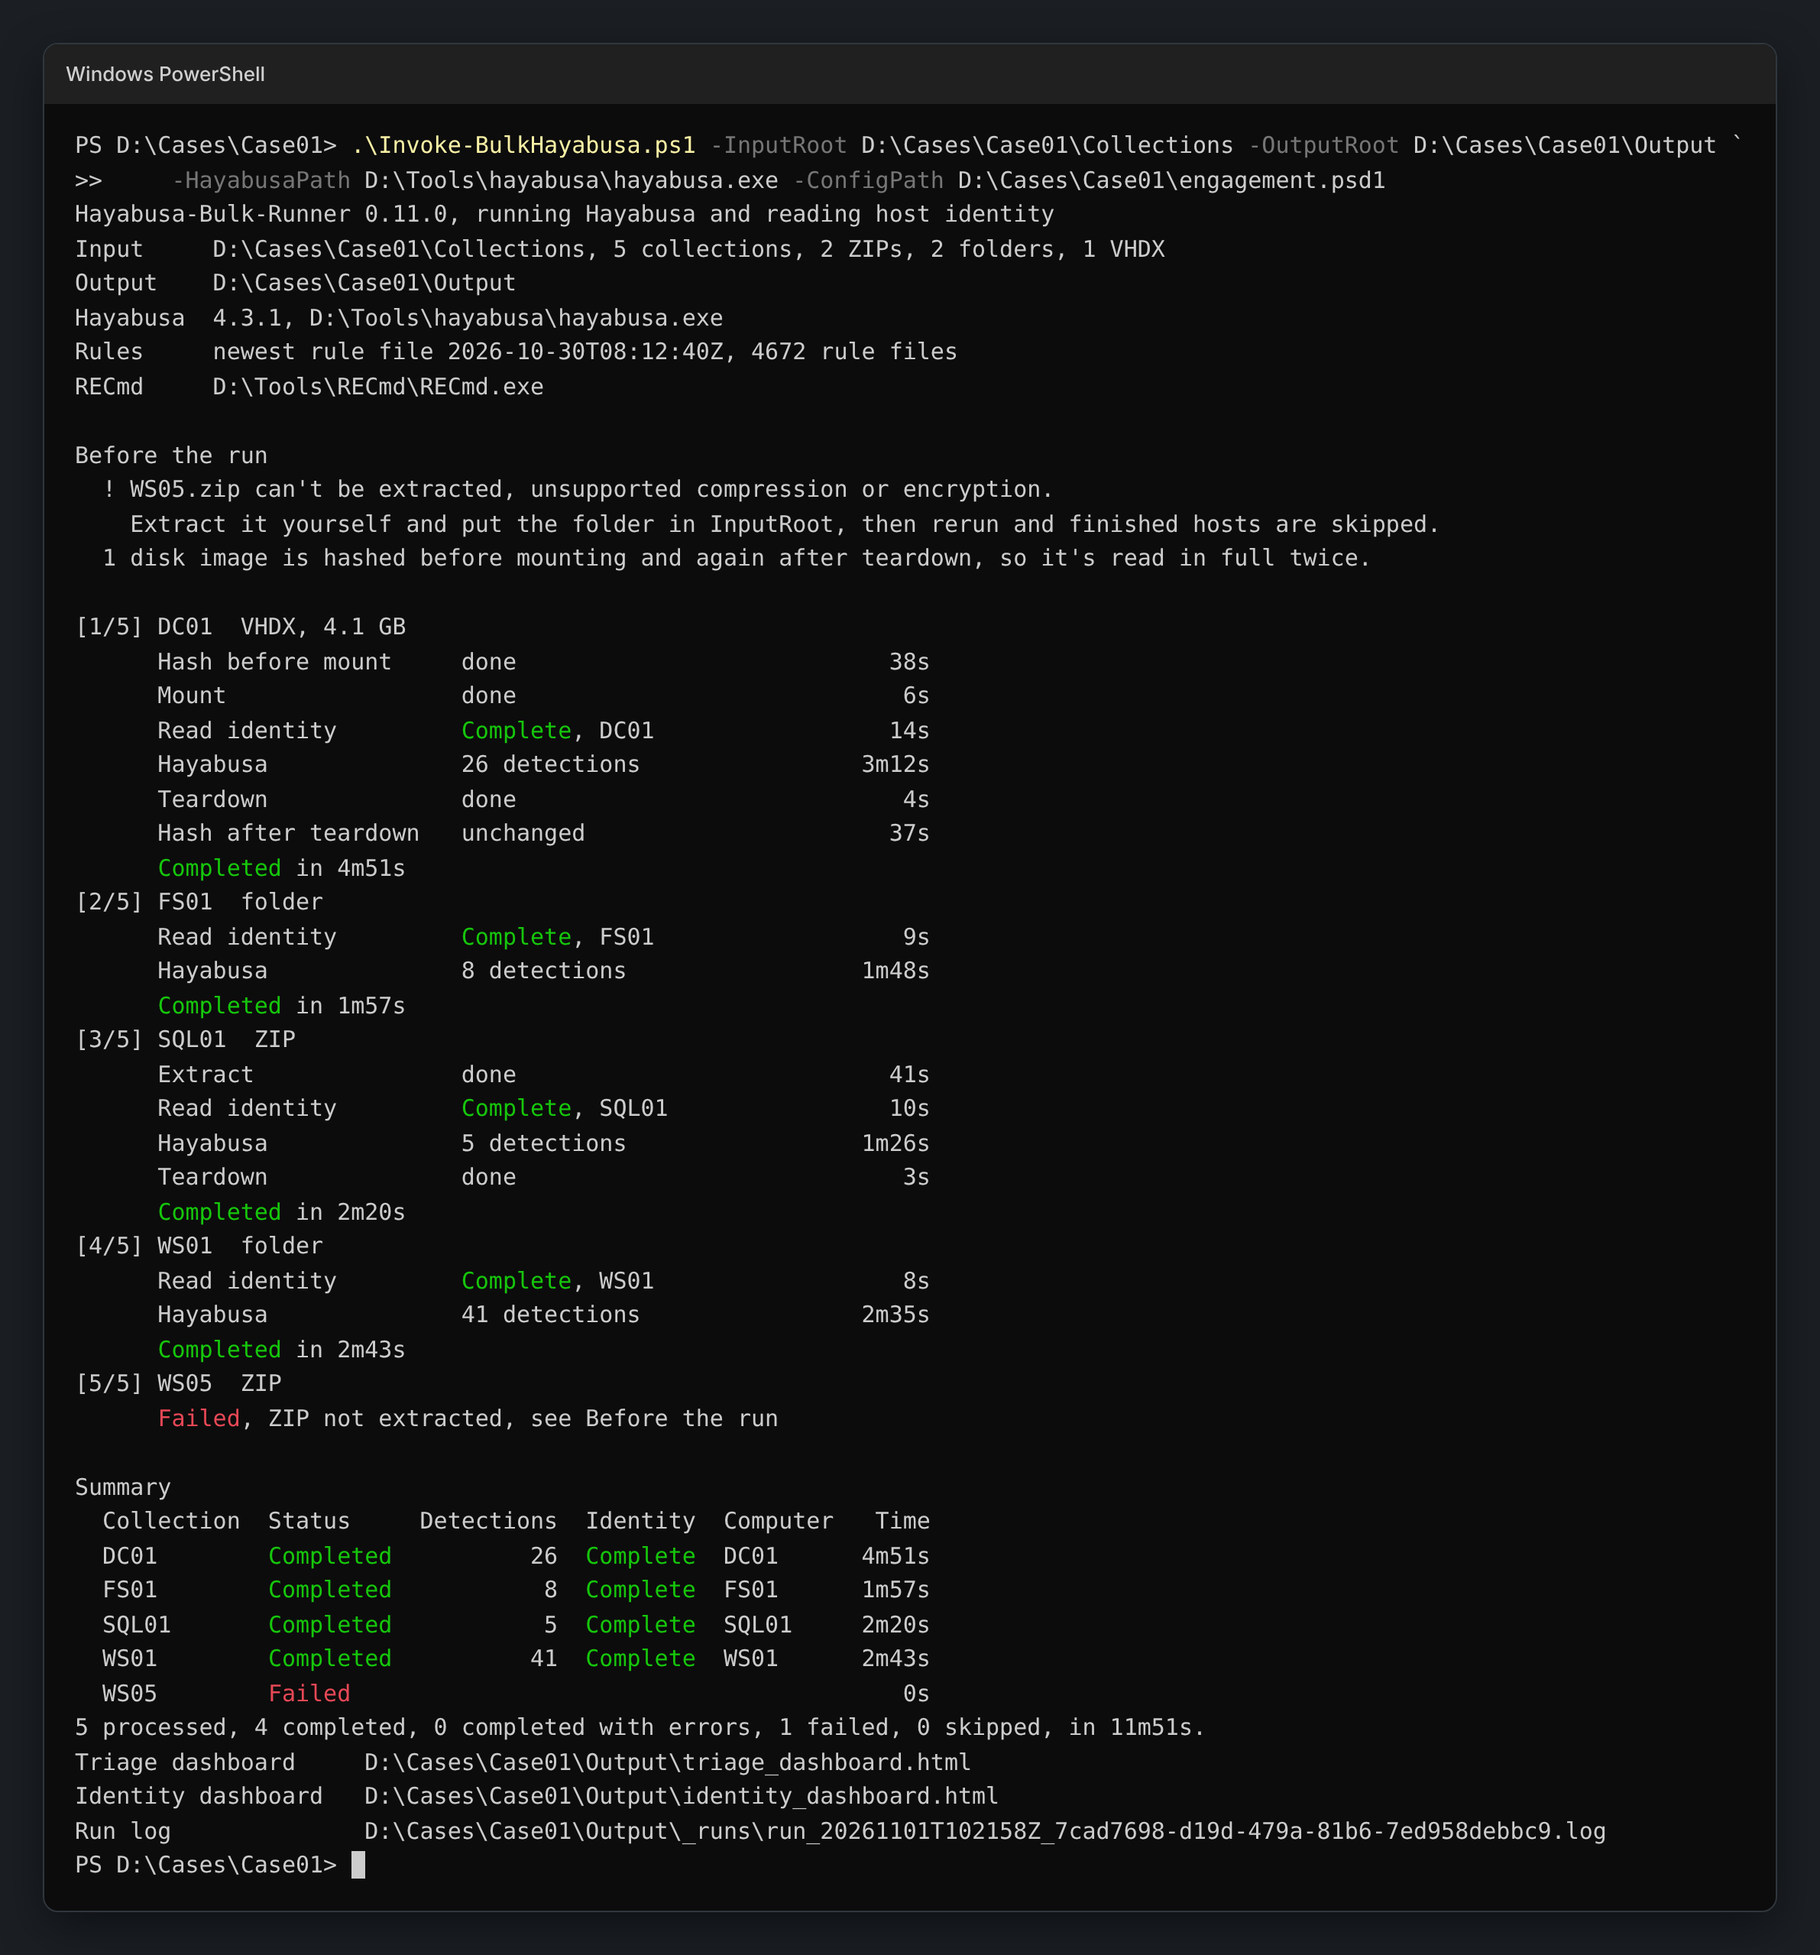
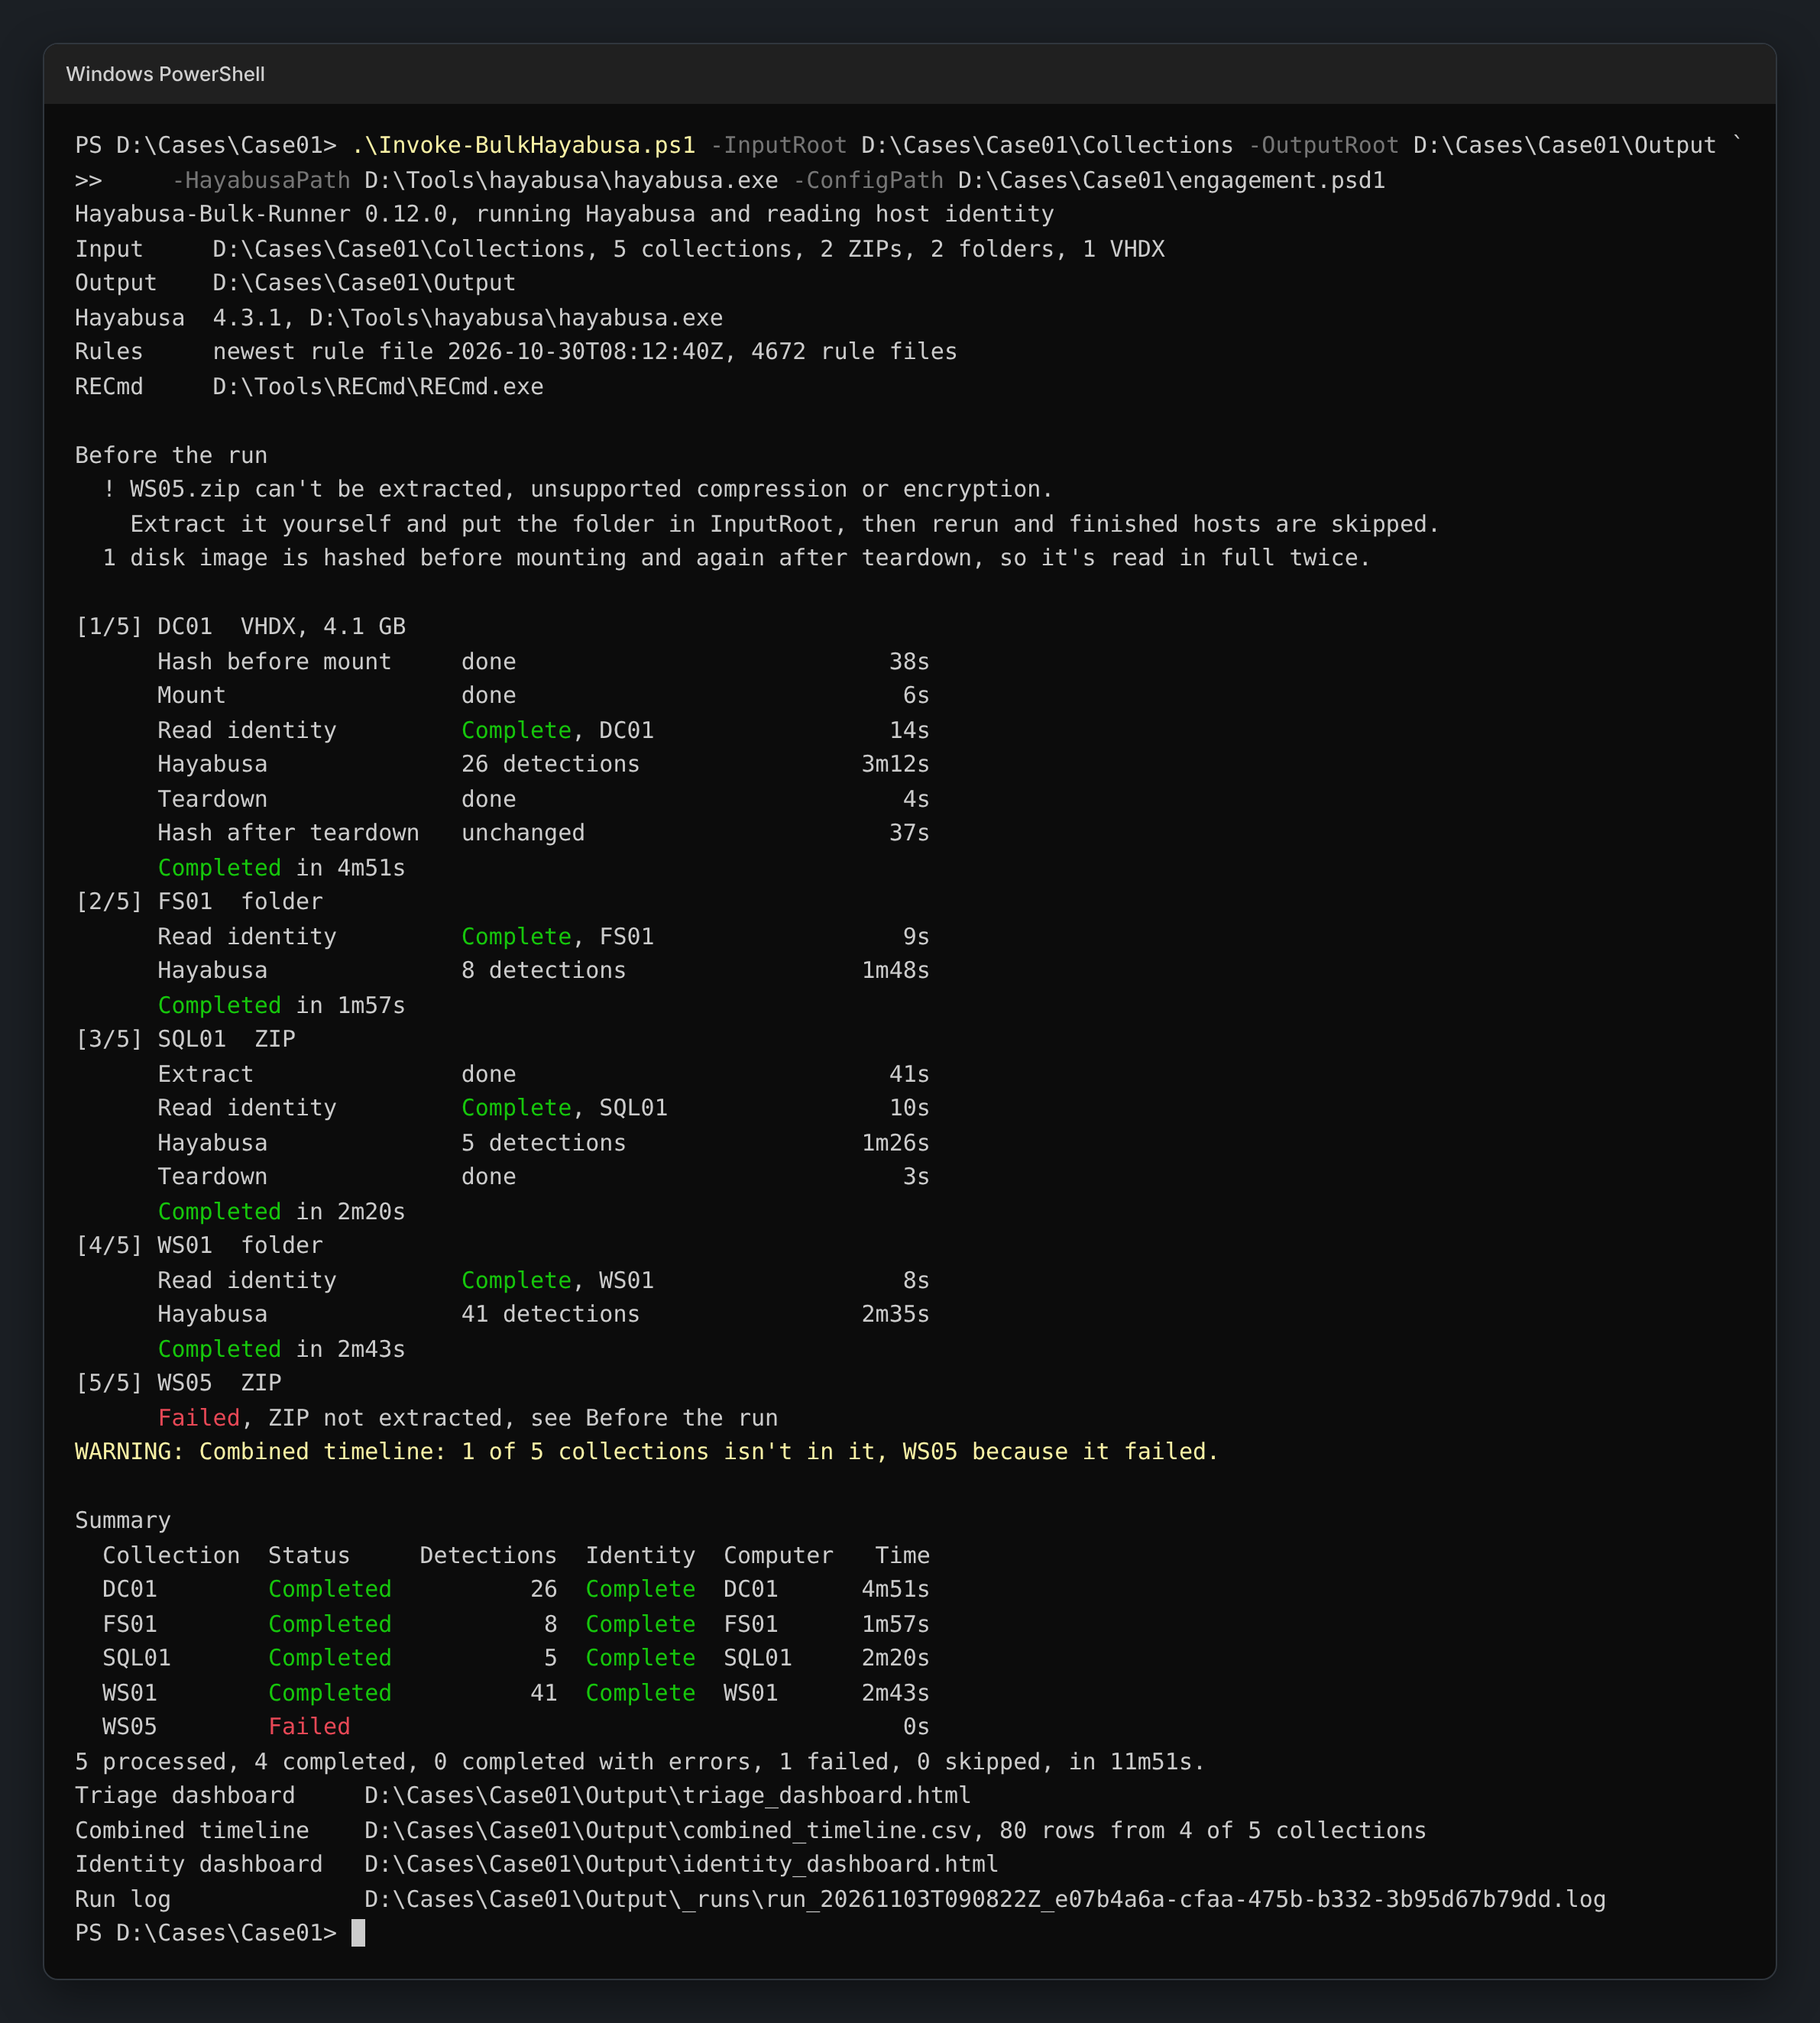
Release v0.12.0 (#46)
Set the tool version to 0.12.0 and move the Unreleased changelog entries under 0.12.0, dated 2026-11-03, with a fresh empty Unreleased section and the compare links updated. The README's sample console output and the console screenshot now show 0.12.0, and the screenshot includes the new combined timeline line.

This release carries the combined timeline from #45, which writes every included host's Hayabusa timeline into one file in time order with Hayabusa's own columns, and says which collections aren't in it. The CHANGELOG also gains a Security entry for a fix that came with it, so every file the tool writes through a temporary file now refuses a link or junction at either path, a link whose target is gone included.

It's a minor bump for the new feature. Run-meta moves to schema version 9 for the combined timeline's fields, and nothing else changes for anyone scripting against the tool.

diff --git a/CHANGELOG.md b/CHANGELOG.md
@@ -6,6 +6,8 @@ The format is based on [Keep a Changelog](https://keepachangelog.com/en/1.1.0/),
 
 ## [Unreleased]
 
+## [0.12.0] - 2026-11-03
+
 ### Added
 
 - A combined timeline, `combined_timeline.csv` in OutputRoot, holding every included host's Hayabusa timeline in one file in time order, so it opens anywhere a single Hayabusa timeline does. It takes the same hosts the dashboard counts, Completed or CompletedWithErrors with a timeline the rollup could read, and copies each row byte for byte as Hayabusa wrote it, merged on the UTC Timestamp `-U` gives, with ties kept in the manifest's order. It's streamed, so memory stays flat however large the run is. When the hosts' columns differ nothing is written, and the warning names each set of columns with its hosts. A Timestamp that isn't in Hayabusa's UTC form, or a host's file out of time order, stops it the same way and names the host and the line, and any earlier file is left as it was. It's written through a temporary file, never through a link, and only when there's the space. A computer name shared by two collections is warned about, since those rows can't be told apart. The run also says which collections aren't in it, so a timeline covering 35 of 40 hosts never reads as the whole case. The closing line and the dashboard give the coverage, and one warning names the collections left out, grouped by why. It's built with the rollup on every run and by `Invoke-HayabusaRollup.ps1`, and the dashboard links it with its row count. `CombinedTimeline = $false` in the engagement config turns it off.
@@ -13,6 +15,10 @@ The format is based on [Keep a Changelog](https://keepachangelog.com/en/1.1.0/),
 ### Changed
 
 - Run-meta's `SchemaVersion` is now 9. Its `Rollup` record, which the `-PassThru` object carries too, has the combined timeline's path, row count, host count and any error, in `CombinedTimeline`, `CombinedTimelineRows`, `CombinedTimelineHosts` and `CombinedTimelineError`, along with `CombinedTimelineCollections`, the number of collections in the manifest, and `CombinedTimelineLeftOut`, the ones not in it with their reasons.
+
+### Security
+
+- Every file the tool writes through a temporary file, the triage CSVs and both dashboards among them, now refuses a link or junction at the file or at its temporary path. It's judged from the entry's own attributes, so a link whose target is gone is caught too. Before, a link at one of those paths could have sent the file somewhere else.
 
 ## [0.11.0] - 2026-11-01
 
@@ -147,7 +153,8 @@ The format is based on [Keep a Changelog](https://keepachangelog.com/en/1.1.0/),
 - ZIP handling hardened against path traversal, zip bombs and Windows long paths.
 - Tested in CI on Windows PowerShell 5.1, PowerShell 7 on Windows, and PowerShell 7 on Linux.
 
-[Unreleased]: https://github.com/rorywag/Hayabusa-Bulk-Runner/compare/v0.11.0...HEAD
+[Unreleased]: https://github.com/rorywag/Hayabusa-Bulk-Runner/compare/v0.12.0...HEAD
+[0.12.0]: https://github.com/rorywag/Hayabusa-Bulk-Runner/compare/v0.11.0...v0.12.0
 [0.11.0]: https://github.com/rorywag/Hayabusa-Bulk-Runner/compare/v0.10.1...v0.11.0
 [0.10.1]: https://github.com/rorywag/Hayabusa-Bulk-Runner/compare/v0.10.0...v0.10.1
 [0.10.0]: https://github.com/rorywag/Hayabusa-Bulk-Runner/compare/v0.9.0...v0.10.0

diff --git a/README.md b/README.md
@@ -25,7 +25,7 @@ The dashboard after a run over eight hosts, with the severity floor at medium:
 
 The console during the same run:
 
-![Console output of a run, starting with a header and a Before the run block that flags a ZIP the tool can't extract, then a block per host with a line for each step and its time, and ending with the summary table and where the dashboards and run log are](docs/images/console.png)
+![Console output of a run, starting with a header and a Before the run block that flags a ZIP the tool can't extract, then a block per host with a line for each step and its time, and ending with the summary table and where to find each output, the combined timeline included](docs/images/console.png)
 
 The host identity dashboard, over a six-host domain, with one workstation's other interfaces and its built-in and system accounts unfolded:
 
@@ -62,7 +62,7 @@ Keep the `lib` folder beside the three scripts, `Invoke-BulkHayabusa.ps1`, `Invo
 It prints a header, then a block for each host as it goes with a line for each step, then a summary and where to look:
 
 ```
-Hayabusa-Bulk-Runner 0.11.0, running Hayabusa
+Hayabusa-Bulk-Runner 0.12.0, running Hayabusa
 Input     D:\Cases\Case01\KAPE, 4 collections, 3 folders, 1 VHDX
 Output    D:\Cases\Case01\Output
 Hayabusa  4.3.1, D:\Tools\hayabusa\hayabusa.exe
